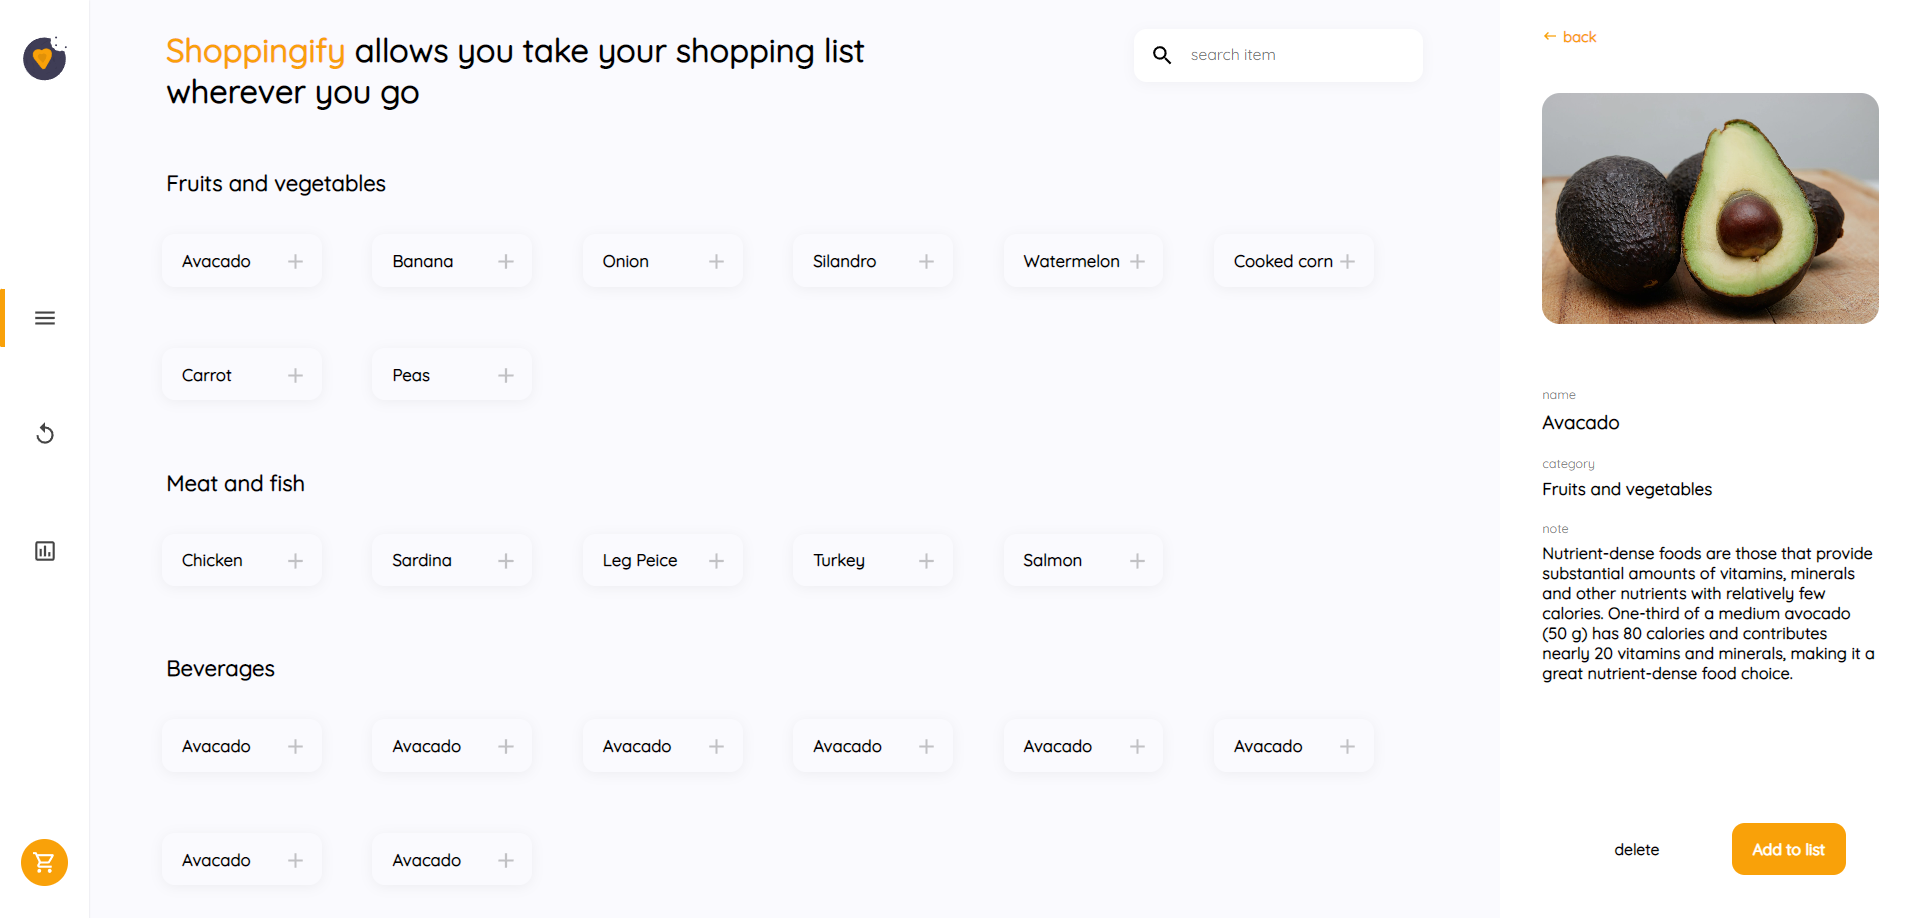
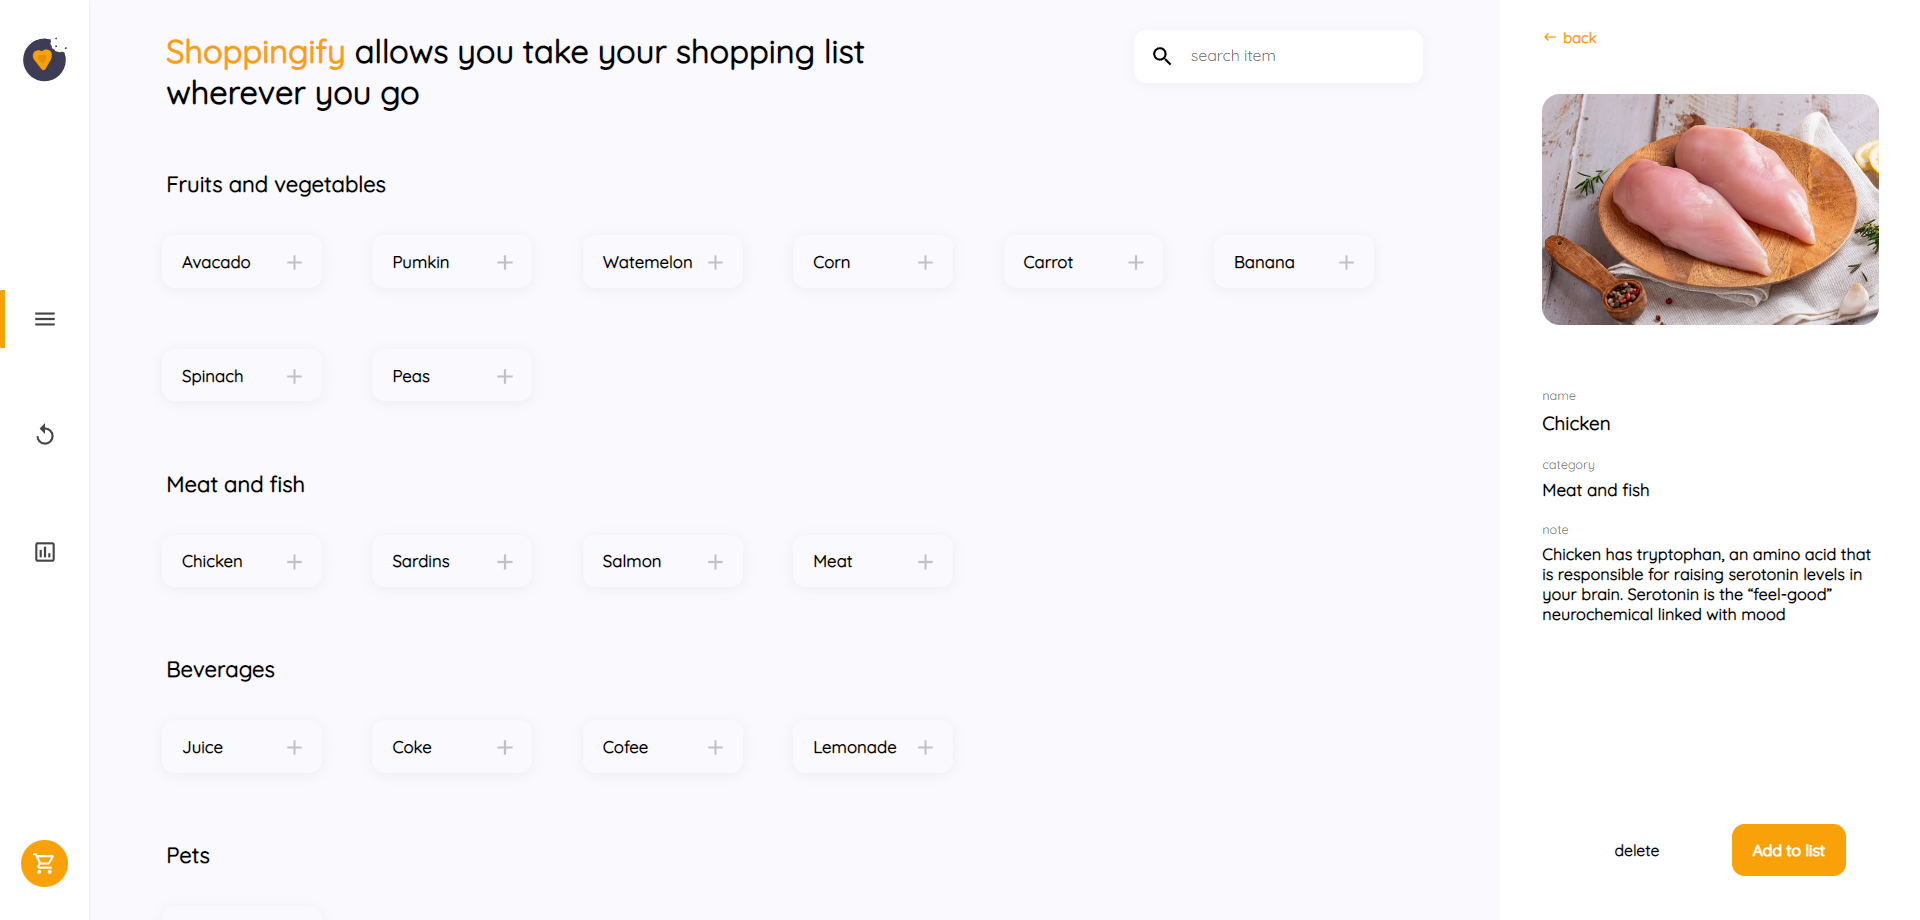
data render as items

diff --git a/client/src/components/Data.tsx b/client/src/components/Data.tsx
@@ -1,6 +1,8 @@
 import { Category } from "./Category";
+import data from "../data.json";
 
 export function Data() {
+  console.log(data);
   return (
     <div
       style={{
@@ -8,52 +10,9 @@ export function Data() {
         height: "50px",
       }}
     >
-      <Category
-        name="Fruits and vegetables"
-        data={[
-          {
-            name: "Avacado",
-            id: 1,
-            category: "Fruits and vegetables",
-            img: "https://wp.inews.co.uk/wp-content/uploads/2021/11/PRI_212086616.jpg?resize=2048,1366&strip=all&quality=90",
-            note: "Nutrient-dense foods are those that provide substantial amounts of vitamins, minerals and other nutrients with relatively few calories. One-third of a medium avocado (50 g) has 80 calories and contributes nearly 20 vitamins and minerals, making it a great nutrient-dense food choice. ",
-          },
-        ]}
-      />
-      <Category
-        name="Meat and fish"
-        data={[
-          {
-            name: "Chicken",
-            id: 9,
-            category: "Meat and fish",
-            img: "https://assets.tendercuts.in/product/C/H/7bfc5e2d-3857-4f3e-a736-222c7a617b67.webp",
-            note: "Chicken has tryptophan, an amino acid that is responsible for raising serotonin levels in your brain. Serotonin is the “feel-good” neurochemical linked with mood",
-          },
-        ]}
-      />
-      <Category
-        name="Beverages"
-        data={[
-          {
-            name: "Juice",
-            id: 1,
-            category: "Beverages",
-            img: "https://www.thelittleepicurean.com/wp-content/uploads/2021/03/passionfruit-juice-1-700x1050.jpg",
-          },
-        ]}
-      />
-      <Category
-        name="Pets"
-        data={[
-          {
-            name: "Oats",
-            id: 1,
-            category: "Pets",
-            img: "https://i0.wp.com/post.healthline.com/wp-content/uploads/2020/06/dog-food-1296x728-header.jpg?w=1155&h=1528",
-          },
-        ]}
-      />
+      {data.map((item) => (
+        <Category key={item.category} name={item.category} data={item.items} />
+      ))}
     </div>
   );
 }

diff --git a/client/src/components/Cart.tsx b/client/src/components/Cart.tsx
@@ -4,6 +4,7 @@ import trolly from "../assets/trolly.svg";
 import { AppContext } from "../App";
 import { useContext } from "react";
 import { Item } from "./Card";
+import EditIcon from "@mui/icons-material/Edit";
 
 type cartProps = {
   cartItems: Item[];
@@ -12,7 +13,7 @@ type cartProps = {
 export function Cart({ cartItems }: cartProps) {
   const context = useContext(AppContext);
 
-  console.log(cartItems);
+  // console.log(cartItems);
 
   return (
     <div className="cart">
@@ -102,8 +103,20 @@ export function Cart({ cartItems }: cartProps) {
           </>
         ) : (
           // cartItems render
-          <div style={{ width: "80%", margin: "auto", marginTop: "25px" }}>
-            <h2 style={{ fontSize: "21px" }}>Shopping list</h2>
+          <div style={{ width: "80%", margin: "auto", marginTop: "45px" }}>
+            <div
+              className="header_cart_items"
+              style={{
+                display: "flex",
+                flexDirection: "row",
+                justifyContent: "space-between",
+                alignItems: "center",
+                marginBottom: "25px",
+              }}
+            >
+              <h2 style={{ fontSize: "21px" }}>Shopping list</h2>
+              <EditIcon sx={{ fontSize: "20px", marginBottom: "-5px" }} />
+            </div>
             {cartItems.map((item) => (
               <pre
                 style={{ fontWeight: "bold", marginTop: "12px" }}

diff --git a/client/src/components/Card.tsx b/client/src/components/Card.tsx
@@ -45,21 +45,12 @@ export function Card({ item }: CardProp) {
           backgroundColor: "transparent",
           border: "none",
           outline: "none",
-          marginRight: "13px",
           cursor: "pointer",
+          marginRight: "14px",
         }}
+        onClick={(e) => handleAdd(e)}
       >
-        <button
-          style={{
-            backgroundColor: "transparent",
-            border: "none",
-            outline: "none",
-            cursor: "pointer",
-          }}
-          onClick={(e) => handleAdd(e)}
-        >
-          <AddIcon sx={{ color: "#C1C1C4", marginTop: "6px" }} />
-        </button>
+        <AddIcon sx={{ color: "#C1C1C4", marginTop: "6px" }} />
       </button>
     </div>
   );

diff --git a/client/src/App.tsx b/client/src/App.tsx
@@ -30,6 +30,8 @@ function App() {
     setShowCart(false);
   }
   function AddToCart(item: Item) {
+    setShowCart(true);
+    setSelected(undefined);
     setCartItems((cartItems) => [...cartItems, item]);
   }
 
@@ -48,7 +50,6 @@ function App() {
           <Route path="/history" element={<History />} />
           <Route path="/statistics" element={<Statistics />} />
         </Routes>
-
         {showAdd && <Add />}
         {selected && <Details selected={selected} />}
         {showCart && <Cart cartItems={cartItems} />}

diff --git a/client/src/components/Details.tsx b/client/src/components/Details.tsx
@@ -107,6 +107,7 @@ export function Details({ selected }: detailsProp) {
             delete
           </button>
           <button
+            onClick={() => context.AddToCart(selected)}
             style={{
               fontWeight: "bold",
               border: "none",
